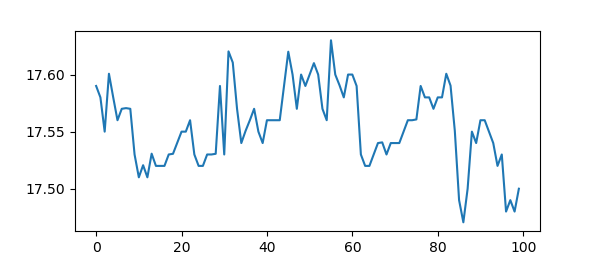
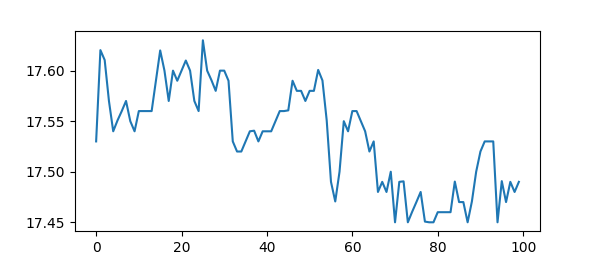
Funcionando

diff --git a/V1.0/main.py b/V1.0/main.py
@@ -12,6 +12,11 @@ rootTroca = None
 
 abev3 = itub4 = mglu3 = petr4 = "sem id"
 
+
+bollinger e medias moveis tem pronta no alpha vantage, coletar e fazer os graficos
+
+
+
 class Program():
     def __init__(self,master):
         self.root = root.geometry("1280x720"), root.resizable(width=False, height=False)
@@ -39,32 +44,32 @@ class Program():
         stocks = [("Médias Móveis", 1), ("Volume", 2), ("Banda de Bollinger", 3), ("Fechamento", 4), ("Sem indicador", 5)]
 
         # metricas ABEV3
-        tk.Radiobutton(root, text="Médias Móveis             ", padx=0, variable=metrABEV3,command=lambda: self.atualizaGraficoABEV3("sem id"),value=1, bg="white").place(x=39, y=596)
-        tk.Radiobutton(root, text="Volume                         ", padx=0, variable=metrABEV3,command=lambda: self.atualizaGraficoABEV3("volume"), value=2, bg="white").place(x=39, y=618)
-        tk.Radiobutton(root, text="Banda de Bollinger       ", padx=0, variable=metrABEV3,command=lambda: self.atualizaGraficoABEV3("sem id"), value=3, bg="white").place(x=39, y=640)
-        tk.Radiobutton(root, text="Fechamento                  ", padx=0, variable=metrABEV3,command=lambda: self.atualizaGraficoABEV3("fechamento"), value=4, bg="white").place(x=39, y=662)
-        tk.Radiobutton(root, text="Sem indicador               ", padx=0, variable=metrABEV3,command=lambda: self.atualizaGraficoABEV3("sem id"), value=5,bg="white").place(x=39, y=684)
+        tk.Radiobutton(root, text="Médias Móveis", padx=0,width=20, variable=metrABEV3,command=lambda: self.atualizaGraficoABEV3("sem id"),value=1, bg="white").place(x=39, y=596)
+        tk.Radiobutton(root, text="Volume", padx=0,width=20, variable=metrABEV3,command=lambda: self.atualizaGraficoABEV3("volume"), value=2, bg="white").place(x=39, y=618)
+        tk.Radiobutton(root, text="Abertura", padx=0,width=20, variable=metrABEV3,command=lambda: self.atualizaGraficoABEV3("abertura"), value=3, bg="white").place(x=39, y=640)
+        tk.Radiobutton(root, text="Fechamento", padx=0,width=20, variable=metrABEV3,command=lambda: self.atualizaGraficoABEV3("fechamento"), value=4, bg="white").place(x=39, y=662)
+        tk.Radiobutton(root, text="Metricas Juntas", padx=0,width=20, variable=metrABEV3,command=lambda: self.atualizaGraficoABEV3("sem id"), value=5,bg="white").place(x=39, y=684)
 
         # metricas MGLU3
-        tk.Radiobutton(root, text="Médias Móveis             ", padx=0, variable=metrMGLU3,command=lambda: self.atualizaGraficoMGLU3("sem id"), value=1, bg="white").place(x=250, y=596)
-        tk.Radiobutton(root, text="Volume                         ", padx=0, variable=metrMGLU3,command=lambda: self.atualizaGraficoMGLU3("volume"), value=2, bg="white").place(x=250, y=618)
-        tk.Radiobutton(root, text="Banda de Bollinger       ", padx=0, variable=metrMGLU3,command=lambda: self.atualizaGraficoMGLU3("sem id"), value=3, bg="white").place(x=250, y=640)
-        tk.Radiobutton(root, text="Fechamento                  ", padx=0, variable=metrMGLU3,command=lambda: self.atualizaGraficoMGLU3("fechamento"), value=4, bg="white").place(x=250, y=662)
-        tk.Radiobutton(root, text="Sem indicador               ", padx=0, variable=metrMGLU3,command=lambda: self.atualizaGraficoMGLU3("sem id"), value=5,bg="white").place(x=250, y=684)
+        tk.Radiobutton(root, text="Médias Móveis", padx=0,width=20, variable=metrMGLU3,command=lambda: self.atualizaGraficoMGLU3("sem id"), value=1, bg="white").place(x=250, y=596)
+        tk.Radiobutton(root, text="Volume", padx=0,width=20, variable=metrMGLU3,command=lambda: self.atualizaGraficoMGLU3("volume"), value=2, bg="white").place(x=250, y=618)
+        tk.Radiobutton(root, text="Abertura", padx=0,width=20, variable=metrMGLU3,command=lambda: self.atualizaGraficoMGLU3("abertura"), value=3, bg="white").place(x=250, y=640)
+        tk.Radiobutton(root, text="Fechamento", padx=0,width=20, variable=metrMGLU3,command=lambda: self.atualizaGraficoMGLU3("fechamento"), value=4, bg="white").place(x=250, y=662)
+        tk.Radiobutton(root, text="Metricas Juntas", padx=0,width=20, variable=metrMGLU3,command=lambda: self.atualizaGraficoMGLU3("sem id"), value=5,bg="white").place(x=250, y=684)
 
         # metricas PETR4
-        tk.Radiobutton(root, text="Médias Móveis             ", padx=0, variable=metrPETR4,command=lambda: self.atualizaGraficoPETR4("sem id"), value=1, bg="white").place(x=461,y=596)
-        tk.Radiobutton(root, text="Volume                         ", padx=0, variable=metrPETR4,command=lambda: self.atualizaGraficoPETR4("volume"), value=2, bg="white").place(x=461, y=618)
-        tk.Radiobutton(root, text="Banda de Bollinger       ", padx=0, variable=metrPETR4,command=lambda: self.atualizaGraficoPETR4("sem id"), value=3, bg="white").place(x=461,y=640)
-        tk.Radiobutton(root, text="Fechamento                  ", padx=0, variable=metrPETR4,command=lambda: self.atualizaGraficoPETR4("fechamento"), value=4, bg="white").place(x=461,y=662)
-        tk.Radiobutton(root, text="Sem indicador               ", padx=0, variable=metrPETR4,command=lambda: self.atualizaGraficoPETR4("sem id"), value=5,bg="white").place(x=461, y=684)
+        tk.Radiobutton(root, text="Médias Móveis", padx=0,width=20, variable=metrPETR4,command=lambda: self.atualizaGraficoPETR4("sem id"), value=1, bg="white").place(x=461,y=596)
+        tk.Radiobutton(root, text="Volume", padx=0,width=20, variable=metrPETR4,command=lambda: self.atualizaGraficoPETR4("volume"), value=2, bg="white").place(x=461, y=618)
+        tk.Radiobutton(root, text="Abertura", padx=0,width=20, variable=metrPETR4,command=lambda: self.atualizaGraficoPETR4("abertura"), value=3, bg="white").place(x=461,y=640)
+        tk.Radiobutton(root, text="Fechamento", padx=0,width=20, variable=metrPETR4,command=lambda: self.atualizaGraficoPETR4("fechamento"), value=4, bg="white").place(x=461,y=662)
+        tk.Radiobutton(root, text="Metricas Juntas", padx=0,width=20, variable=metrPETR4,command=lambda: self.atualizaGraficoPETR4("sem id"), value=5,bg="white").place(x=461, y=684)
 
         # metricas ITUB4
-        tk.Radiobutton(root, text="Médias Móveis             ", padx=0, variable=metrITUB4,command=lambda: self.atualizaGraficoITUB4("sem id"), value=1, bg="white").place(x=672,y=596)
-        tk.Radiobutton(root, text="Volume                         ", padx=0, variable=metrITUB4,command=lambda: self.atualizaGraficoITUB4("volume"), value=2, bg="white").place(x=672, y=618)
-        tk.Radiobutton(root, text="Banda de Bollinger       ", padx=0, variable=metrITUB4,command=lambda: self.atualizaGraficoITUB4("sem id"), value=3, bg="white").place(x=672,y=640)
-        tk.Radiobutton(root, text="Fechamento                  ", padx=0, variable=metrITUB4,command=lambda: self.atualizaGraficoITUB4("fechamento"), value=4, bg="white").place(x=672,y=662)
-        tk.Radiobutton(root, text="Sem indicador               ", padx=0,variable=metrITUB4,command=lambda: self.atualizaGraficoITUB4("sem id"), value=5,bg="white").place(x=672, y=684)
+        tk.Radiobutton(root, text="Médias Móveis", padx=0,width=20, variable=metrITUB4,command=lambda: self.atualizaGraficoITUB4("sem id"), value=1, bg="white").place(x=672,y=596)
+        tk.Radiobutton(root, text="Volume", padx=0,width=20, variable=metrITUB4,command=lambda: self.atualizaGraficoITUB4("volume"), value=2, bg="white").place(x=672, y=618)
+        tk.Radiobutton(root, text="Abertura", padx=0,width=20, variable=metrITUB4,command=lambda: self.atualizaGraficoITUB4("abertura"), value=3, bg="white").place(x=672,y=640)
+        tk.Radiobutton(root, text="Fechamento", padx=0,width=20, variable=metrITUB4,command=lambda: self.atualizaGraficoITUB4("fechamento"), value=4, bg="white").place(x=672,y=662)
+        tk.Radiobutton(root, text="Metricas Juntas", padx=0,width=20,variable=metrITUB4,command=lambda: self.atualizaGraficoITUB4("sem id"), value=5,bg="white").place(x=672, y=684)
 
         buyABEV = tk.Button(root, text="COMPRAR ABEV3", width=15, height=0).place(x=870, y=566)
         sellABEV = tk.Button(root, text="VENDER ABEV3", width=15, height=0).place(x=870, y=600)
@@ -101,15 +106,15 @@ class Program():
         self.labelABEV3.place(x=39, y=572)
 
         self.labelITUB4 = tk.Label(root)
-        self.labelITUB4.configure(text='ITUB4:', font="Times 12 bold", fg="black", bg="white")
+        self.labelITUB4.configure(text='MGLU3:', font="Times 12 bold", fg="black", bg="white")
         self.labelITUB4.place(x=250, y=572)
 
         self.labelMGLU3 = tk.Label(root)
-        self.labelMGLU3.configure(text='MGLU3:', font="Times 12 bold", fg="black", bg="white")
+        self.labelMGLU3.configure(text='PETR4:', font="Times 12 bold", fg="black", bg="white")
         self.labelMGLU3.place(x=461, y=572)
 
         self.labelPETR4 = tk.Label(root)
-        self.labelPETR4.configure(text='PETR4:', font="Times 12 bold", fg="black", bg="white")
+        self.labelPETR4.configure(text='ITUB4:', font="Times 12 bold", fg="black", bg="white")
         self.labelPETR4.place(x=672, y=572)
 
 
@@ -117,9 +122,9 @@ class Program():
         global abev3
         if metrica == "sem id":
             abev3 = "sem id"
-            load = Image.open("images/ABEV3/ABEV3open.png")
-        elif metrica == "boolinger":
-            abev3 = "boolinger"
+            load = Image.open("images/ABEV3/ABEV3semid.png")
+        elif metrica == "abertura":
+            abev3 = "abertura"
             load = Image.open("images/ABEV3/ABEV3open.png")
         elif metrica == "volume":
             abev3 = "volume"
@@ -129,7 +134,7 @@ class Program():
             load = Image.open("images/ABEV3/ABEV3close.png")
         elif metrica == "media":
             abev3 = "media"
-            load = Image.open("images/ABEV3/ABEV3open.png")
+            load = Image.open("images/ABEV3/ABEV3semid.png")
 
         render = ImageTk.PhotoImage(load)
         graph1 = Label(self.frame0, image=render)
@@ -140,9 +145,9 @@ class Program():
         global itub4
         if metrica == "sem id":
             itub4 = "sem id"
-            load2 = Image.open("images/ITUB4/ITUB4open.png")
-        elif metrica == "boolinger":
-            itub4 = "boolinger"
+            load2 = Image.open("images/ITUB4/ITUB4semid.png")
+        elif metrica == "abertura":
+            itub4 = "abertura"
             load2 = Image.open("images/ITUB4/ITUB4open.png")
         elif metrica == "volume":
             itub4 = "volume"
@@ -152,7 +157,7 @@ class Program():
             load2 = Image.open("images/ITUB4/ITUB4close.png")
         elif metrica == "media":
             itub4 = "media"
-            load2 = Image.open("images/ITUB4/ITUB4open.png")
+            load2 = Image.open("images/ITUB4/ITUB4semid.png")
         render = ImageTk.PhotoImage(load2)
         graph1 = Label(self.frame0, image=render)
         graph1.image = render
@@ -162,9 +167,9 @@ class Program():
         global mglu3
         if metrica == "sem id":
             mglu3 = "sem id"
-            load3 = Image.open("images/MGLU3/MGLU3open.png")
-        elif metrica == "boolinger":
-            mglu3 = "boolinger"
+            load3 = Image.open("images/MGLU3/MGLU3semid.png")
+        elif metrica == "abertura":
+            mglu3 = "abertura"
             load3 = Image.open("images/MGLU3/MGLU3open.png")
         elif metrica == "volume":
             mglu3 = "volume"
@@ -174,7 +179,7 @@ class Program():
             load3 = Image.open("images/MGLU3/MGLU3close.png")
         elif metrica == "media":
             mglu3 = "media"
-            load3 = Image.open("images/MGLU3/MGLU3open.png")
+            load3 = Image.open("images/MGLU3/MGLU3semid.png")
         render = ImageTk.PhotoImage(load3)
         graph1 = Label(self.frame0, image=render)
         graph1.image = render
@@ -184,9 +189,9 @@ class Program():
         global petr4
         if metrica == "sem id":
             petr4 = "sem id"
-            load4 = Image.open("images/PETR4/PETR4open.png")
-        elif metrica == "boolinger":
-            petr4 = "boolinger"
+            load4 = Image.open("images/PETR4/PETR4semid.png")
+        elif metrica == "abertura":
+            petr4 = "abertura"
             load4 = Image.open("images/PETR4/PETR4open.png")
         elif metrica == "volume":
             petr4 = "volume"
@@ -196,7 +201,7 @@ class Program():
             load4 = Image.open("images/PETR4/PETR4close.png")
         elif metrica == "media":
             petr4 = "media"
-            load4 = Image.open("images/PETR4/PETR4open.png")
+            load4 = Image.open("images/PETR4/PETR4semid.png")
         render = ImageTk.PhotoImage(load4)
         graph1 = Label(self.frame0, image=render)
         graph1.image = render

diff --git a/V1.0/request_http_multiThread3_WORKING_COMPACT.py b/V1.0/request_http_multiThread3_WORKING_COMPACT.py
@@ -48,8 +48,14 @@ def gerador():
                     plt.plot(valor, close[::-1])
                     plt.savefig('images/ABEV3/' + stock + "close" + '.png')
                     plt.clf()
-                    plt.plot(valor, volume[::-1])
+                    plt.bar(valor, volume[::-1])
                     plt.savefig('images/ABEV3/' + stock + "volume" + '.png')
+                    plt.clf()
+
+                    plt.plot(valor, open[::-1])
+                    plt.plot(valor, high[::-1])
+                    plt.plot(valor, close[::-1])
+                    plt.savefig('images/ABEV3/' + stock + "semid" + '.png')
                     plt.clf()
                 elif lista.index(i) == 1:
                     stock = "MGLU3"
@@ -62,8 +68,14 @@ def gerador():
                     plt.plot(valor, close[::-1])
                     plt.savefig('images/MGLU3/' + stock + "close" + '.png')
                     plt.clf()
-                    plt.plot(valor, volume[::-1])
+                    plt.bar(valor, volume[::-1])
                     plt.savefig('images/MGLU3/' + stock + "volume" + '.png')
+                    plt.clf()
+
+                    plt.plot(valor, open[::-1])
+                    plt.plot(valor, high[::-1])
+                    plt.plot(valor, close[::-1])
+                    plt.savefig('images/MGLU3/' + stock + "semid" + '.png')
                     plt.clf()
                 elif lista.index(i) == 2:
                     stock = "PETR4"
@@ -76,8 +88,14 @@ def gerador():
                     plt.plot(valor, close[::-1])
                     plt.savefig('images/PETR4/' + stock + "close" + '.png')
                     plt.clf()
-                    plt.plot(valor, volume[::-1])
+                    plt.bar(valor, volume[::-1])
                     plt.savefig('images/PETR4/' + stock + "volume" + '.png')
+                    plt.clf()
+
+                    plt.plot(valor, open[::-1])
+                    plt.plot(valor, high[::-1])
+                    plt.plot(valor, close[::-1])
+                    plt.savefig('images/PETR4/' + stock + "semid" + '.png')
                     plt.clf()
                 else:
                     stock = "ITUB4"
@@ -90,9 +108,16 @@ def gerador():
                     plt.plot(valor, close[::-1])
                     plt.savefig('images/ITUB4/' + stock + "close" + '.png')
                     plt.clf()
-                    plt.plot(valor, volume[::-1])
+                    plt.bar(valor, volume[::-1])
                     plt.savefig('images/ITUB4/' + stock + "volume" + '.png')
                     plt.clf()
+
+                    plt.plot(valor, open[::-1])
+                    plt.plot(valor, high[::-1])
+                    plt.plot(valor, close[::-1])
+                    plt.savefig('images/ITUB4/' + stock + "semid" + '.png')
+                    plt.clf()
+
                 plt.close()
             break
         ABEV3 = MGLU3 = PETR4 = ITUB4 = None
